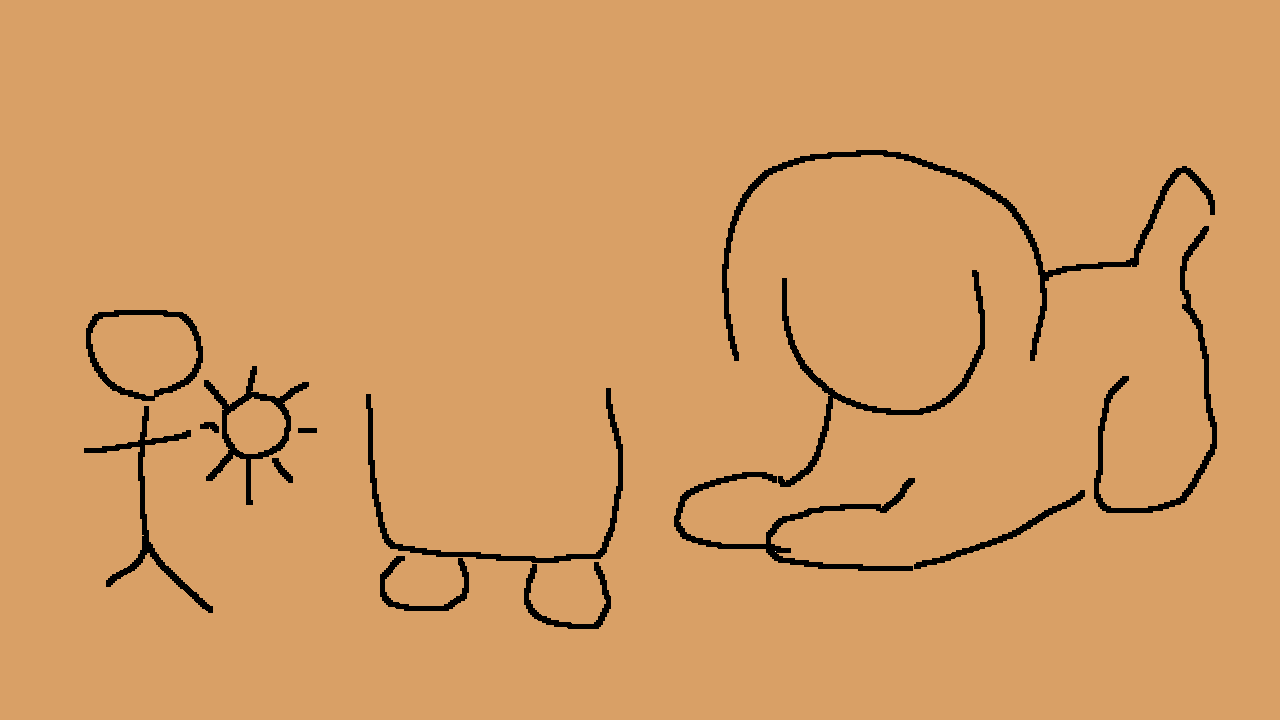
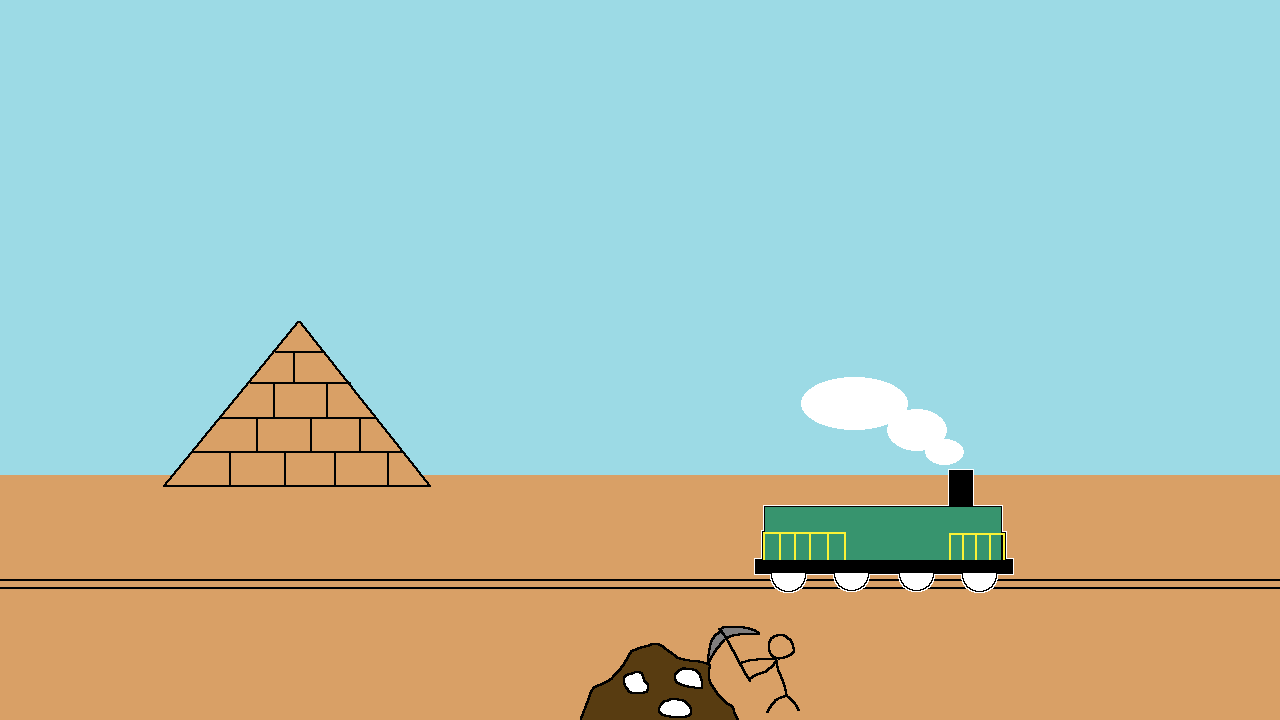
UI変更

diff --git a/Application/Application/src/Game/Scene/GamePlayScene.cpp b/Application/Application/src/Game/Scene/GamePlayScene.cpp
@@ -28,6 +28,8 @@
 
 #include <src/Game/Sandstrom/SandstormManager.h>
 
+#include <src/Game/GameData/GameDataManager.h>
+
 void GamePlayScene::Initialize() {
 	Cygnus::DirectXBase* dxBase = Cygnus::DirectXBase::GetInstance();
 
@@ -90,7 +92,27 @@ void GamePlayScene::Initialize() {
 
 	//ステージエディタ初期化
 	stageEditor_ = std::make_unique<StageEditor>();
-	stageEditor_->LoadJsonFile("resources/stageEditor/stage_5.json");//ステージジェイソンファイルを読み込む
+	if(GameDataManager::GetInstance()->GetTargetStage() == 0)
+	{
+		stageEditor_->LoadJsonFile("resources/stageEditor/stage_0.json");//ステージジェイソンファイルを読み込む
+	}
+	else if (GameDataManager::GetInstance()->GetTargetStage() == 1)
+	{
+		stageEditor_->LoadJsonFile("resources/stageEditor/stage_1.json");//ステージジェイソンファイルを読み込む
+	}
+	else if (GameDataManager::GetInstance()->GetTargetStage() == 2)
+	{
+		stageEditor_->LoadJsonFile("resources/stageEditor/stage_2.json");//ステージジェイソンファイルを読み込む
+	}
+	else if (GameDataManager::GetInstance()->GetTargetStage() == 3)
+	{
+		stageEditor_->LoadJsonFile("resources/stageEditor/stage_3.json");//ステージジェイソンファイルを読み込む
+	}
+	else if (GameDataManager::GetInstance()->GetTargetStage() == 5)
+	{
+		stageEditor_->LoadJsonFile("resources/stageEditor/stage_5.json");//ステージジェイソンファイルを読み込む
+	}
+
 	stageEditor_->SpitObjects(player_,sphinx_);// プレイヤー生成 + 初期化
 
 	//最初の線路に設置される
@@ -113,6 +135,7 @@ void GamePlayScene::Initialize() {
 void GamePlayScene::Finalize()
 {
 	Cygnus::SoundManager::GetInstance()->Stop("sandstorm");
+	Cygnus::SoundManager::GetInstance()->Stop("resshaugoku");
 }
 
 
@@ -336,7 +359,7 @@ void GamePlayScene::Draw() {
 
 	if (carrier_->IsGoal())
 	{
-		Cygnus::SceneManager::GetInstance()->ChangeScene("RESULT");
+		Cygnus::SceneManager::GetInstance()->ChangeScene("SELECT");
 		Cygnus::CollisionManager::GetInstance()->Clear();
 	}
 

diff --git a/Application/Application/src/Game/OtherSceneObj/StageSelectSceneObject/StageSelectSceneUI/StageSelectSceneUI.cpp b/Application/Application/src/Game/OtherSceneObj/StageSelectSceneObject/StageSelectSceneUI/StageSelectSceneUI.cpp
@@ -1,5 +1,6 @@
 #include "StageSelectSceneUI.h"
 #include "ImguiWrapper.h"
+#include <src/Game/GameData/GameDataManager.h>
 
 using namespace Cygnus;
 
@@ -11,6 +12,20 @@ void StageSelectSceneUI::Init(SpriteCommon* spriteCommon)
 	// 2. このシーンで必要なスプライト数分 vector のメモリを確保
 	sprites_.resize(SpriteNum);
 
+	sprites_[STAGE_1].sprite = std::make_unique<Sprite>();
+	sprites_[STAGE_1].sprite->Initialize(spriteCommon_, Cygnus::TextureManager::GetInstance().Load("UI/stage1.png"));
+
+	sprites_[STAGE_2].sprite = std::make_unique<Sprite>();
+	sprites_[STAGE_2].sprite->Initialize(spriteCommon_, Cygnus::TextureManager::GetInstance().Load("UI/stage2.png"));
+
+	sprites_[STAGE_3].sprite = std::make_unique<Sprite>();
+	sprites_[STAGE_3].sprite->Initialize(spriteCommon_, Cygnus::TextureManager::GetInstance().Load("UI/stage3.png"));
+
+	sprites_[STAGE_4].sprite = std::make_unique<Sprite>();
+	sprites_[STAGE_4].sprite->Initialize(spriteCommon_, Cygnus::TextureManager::GetInstance().Load("UI/stage4.png"));
+
+	sprites_[STAGE_5].sprite = std::make_unique<Sprite>();
+	sprites_[STAGE_5].sprite->Initialize(spriteCommon_, Cygnus::TextureManager::GetInstance().Load("UI/stage5.png"));
 
 	// スタート（決定）ボタンの生成
 	sprites_[START_TEX].sprite = std::make_unique<Sprite>();
@@ -23,6 +38,18 @@ void StageSelectSceneUI::Init(SpriteCommon* spriteCommon)
 
 void StageSelectSceneUI::Update()
 {
+	for(int i = 0; i < 5; ++i)
+	{
+		// ステージ選択のスプライトは、ゲームデータでクリア済みのステージのみ表示する
+		if (GameDataManager::GetInstance()->GetTargetStage() == i)
+		{
+			sprites_[i].sprite->SetColor({1,1,1,1});
+		}
+		else
+		{
+			sprites_[i].sprite->SetColor({ 1,1,1,0 });
+		}
+	}
 	// 全スプライトの基本更新（全要素の sprite->Update() を実行）
 	OtherSceneUIBase::Update();
 

diff --git a/Application/Application/src/Game/Scene/StageSelectScene/StageSelectScene.cpp b/Application/Application/src/Game/Scene/StageSelectScene/StageSelectScene.cpp
@@ -40,7 +40,7 @@ void StageSelectScene::Initialize()
 	objectGround_->model_ = &Cygnus::ModelManager::GetInstance()->GetModel("Plane"); // モデル設定
 	objectGround_->transform_.rotate_ = { -Cygnus::PIf / 2.0f, 0.0f, 0.0f }; // 上向き
 	objectGround_->transform_.scale_ = { 500.0f, 500.0f, 1.0f }; // スケール変更
-	objectGround_->materialCB_.data_->color = { 0.5f, 0.5f, 0.5f, 1.0f }; // 色変更
+	objectGround_->materialCB_.data_->color = { 0.85f, 0.625f, 0.4f, 1.0f }; // 色変更
 
 	// 固有オブジェクトの生成
 	selectObjects_ = std::make_unique<SelectObjectManager>();

diff --git a/Application/Application/src/Game/OtherSceneObj/TitleSceneObject/TitleSceneUI/TitleSceneUI.cpp b/Application/Application/src/Game/OtherSceneObj/TitleSceneObject/TitleSceneUI/TitleSceneUI.cpp
@@ -19,7 +19,7 @@ void TitleSceneUI::Init(SpriteCommon* spriteCommon)
 	sprites_[TITLE_TEX].sprite = std::make_unique<Sprite>();
 	sprites_[TITLE_TEX].sprite->Initialize(spriteCommon_, Cygnus::TextureManager::GetInstance().Load("UI/TitleText.png"));
 	sprites_[TITLE_TEX].sprite->SetAnchorPoint({ 0.5f, 0.5f });
-	sprites_[TITLE_TEX].pos = { 640.0f, 150.0f };
+	sprites_[TITLE_TEX].pos = { 640.0f, 350.0f };
 	sprites_[TITLE_TEX].size = sprites_[TITLE_TEX].sprite->GetSize();
 	sprites_[TITLE_TEX].sprite->SetPosition(sprites_[TITLE_TEX].pos);
 

diff --git a/Application/Application/src/Game/OtherSceneObj/StageSelectSceneObject/StageSelectSceneUI/StageSelectSceneUI.h b/Application/Application/src/Game/OtherSceneObj/StageSelectSceneObject/StageSelectSceneUI/StageSelectSceneUI.h
@@ -16,6 +16,11 @@ public:
 private:
 	enum SelectUISprites
 	{
+		STAGE_1,
+		STAGE_2,
+		STAGE_3,
+		STAGE_4,
+		STAGE_5,
 		START_TEX,
 		SpriteNum
 	};
